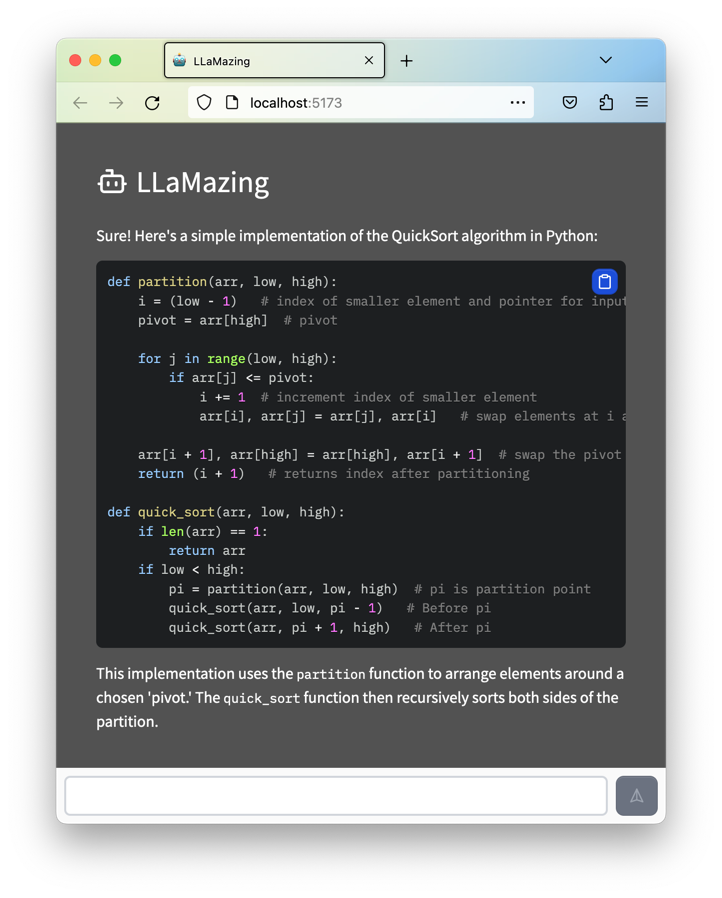
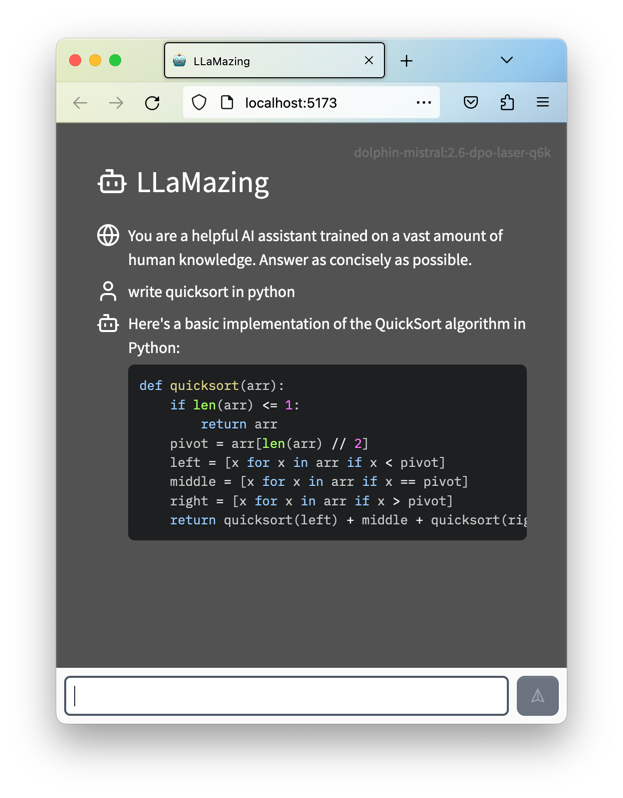
chore: update

diff --git a/src/App.tsx b/src/App.tsx
@@ -3,7 +3,7 @@ import "./App.css";
 import { Button } from "./rac/Button.tsx";
 import ollama from "ollama";
 import { TextField } from "./rac/TextField.tsx";
-import { Bot, SendHorizonal } from "lucide-react";
+import { Bot, Globe, SendHorizonal, User } from "lucide-react";
 import MarkdownRenderer from "./MarkdownRenderer.tsx";
 
 const system_prompt = `You are a helpful AI assistant trained on a vast
@@ -12,19 +12,24 @@ const system_prompt = `You are a helpful AI assistant trained on a vast
 function App() {
   const [prompt, setPrompt] = useState("Why is the sky blue?");
   const [response, setResponse] = useState("");
-  const [model, setModel] = useState("dolphin-mistral:2.6-dpo-laser-q6k");
+  const [models, setModels] = useState<string[]>([]);
+  const [model, setModel] = useState("");
   const [messages, setMessages] = useState([
     { role: "system", content: system_prompt },
   ]);
 
   useEffect(() => {
     (async () => {
-      setModel((await ollama.list()).models[0].name); // todo: use a selector
+      const availableModels = (await ollama.list()).models.map((m) => m.name);
+      setModels(availableModels);
+      setModel(availableModels[0]);
     })();
   }, []);
 
   const chat = async (message: string) => {
     const newMessages = [...messages, { role: "user", content: message }];
+
+    setMessages((prev) => [...prev, { role: "user", content: message }]);
 
     const res = await ollama.chat({
       model,
@@ -37,12 +42,9 @@ function App() {
       resp += part.message.content;
       setResponse(resp);
     }
+    setResponse("");
 
-    setMessages([
-      ...messages,
-      { role: "user", content: message },
-      { role: "assistant", content: resp },
-    ]);
+    setMessages((prev) => [...prev, { role: "assistant", content: resp }]);
   };
 
   const submit = async () => {
@@ -60,13 +62,41 @@ function App() {
   };
 
   return (
-    <div className="flex min-h-screen flex-col gap-2 bg-neutral-600 p-10 font-sans text-white">
-      <h1 className="mb-4 flex select-none items-center gap-2 text-3xl">
+    <div className="relative flex min-h-svh flex-col gap-2 bg-neutral-600 p-10 font-sans text-white">
+      <h1 className="flex select-none items-center gap-2 text-3xl">
         <Bot size="32" /> LLaMazing
       </h1>
 
-      <div className="flex h-full flex-1 flex-col gap-2 overflow-y-auto pb-16">
-        <MarkdownRenderer content={response} />
+      <div className="absolute right-4 top-4">
+        {/*todo: add selector*/}
+        <span className="select-none text-sm text-gray-200/20">{model}</span>
+      </div>
+
+      <div className="mt-4 grid h-full grid-cols-[auto_minmax(0,_1fr)] gap-2 overflow-y-auto pb-10">
+        {messages.map((m, i) => (
+          <>
+            {
+              {
+                system: <Globe size="24" />,
+                user: <User size="24" />,
+                assistant: <Bot size="24" />,
+              }[m.role]
+            }
+            <div>
+              <MarkdownRenderer content={m.content} />
+            </div>
+          </>
+        ))}
+        {response ? (
+          <>
+            <Bot size="24" />
+            <div>
+              <MarkdownRenderer content={response} />
+            </div>
+          </>
+        ) : (
+          ""
+        )}
       </div>
 
       <div className="fixed bottom-0 left-0 right-0 bg-neutral-50 p-2">

diff --git a/src/MarkdownRenderer.tsx b/src/MarkdownRenderer.tsx
@@ -7,8 +7,6 @@ import remarkMath from "remark-math";
 import rehypeKatex from "rehype-katex";
 import remarkGfm from "remark-gfm";
 import { atomDark as style } from "react-syntax-highlighter/dist/cjs/styles/prism";
-import { ClipboardDocumentCheckIcon } from "@heroicons/react/20/solid";
-import { ClipboardDocumentIcon } from "@heroicons/react/16/solid";
 import { Clipboard, ClipboardCheck } from "lucide-react";
 
 interface CodeBlockProps {

diff --git a/tailwind.config.js b/tailwind.config.js
@@ -9,5 +9,9 @@ export default {
       },
     },
   },
-  plugins: ["tailwindcss-react-aria-components", "@tailwindcss/typography"],
+  plugins: [
+    "tailwindcss-react-aria-components",
+    "tailwindcss-animate",
+    "@tailwindcss/typography",
+  ],
 };
